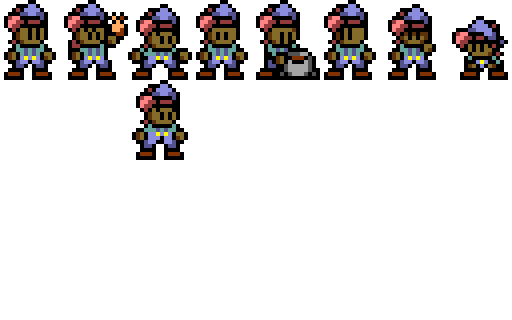
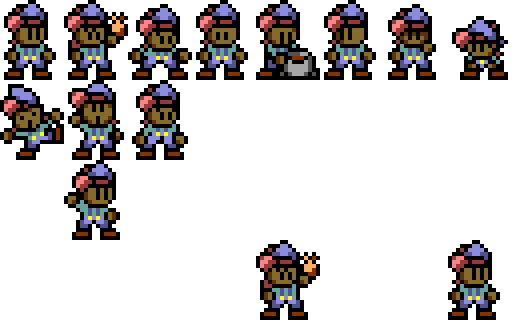
added combat hurt animations and enemy attack animations.

diff --git a/js/combat/combat.js b/js/combat/combat.js
@@ -1,5 +1,6 @@
 var combat = {
     enemies: [], state: 0, season: 0, numPlantTurns: 0,
+    playerAnimInfo: { animState: 0, anim: [[0, 0]], x: 4, y: 5.75 },
     expEarned: 0, moniesEarned: 0, itemsEarned: [], happyCows: [], usedShooters: [],
     grid: [], enemyGrid: [], enemywidth: 0, enemyheight: 0,
     isBossBattle: false, dx: 0, dy: 0, enemydx: 0, enemydy: 0,
@@ -41,6 +42,7 @@ var combat = {
         }
         this.enemyGrid = this.getGrid(this.enemywidth, this.enemyheight);
         this.drawMainElements();
+        combat.charAnimIdx = setInterval(combat.drawCharacters, 50);
         this.startRound();
         this.menu.setup();
     },
@@ -62,16 +64,76 @@ var combat = {
             season -= dist[j];
         }
     },
-    drawMainElements: function() {
-        gfx.clearSome(["background", "characters"]);
-        var initx = 11 - this.enemies.length;
-        for(var i = 0; i < this.enemies.length; i++) { // enemies
-            if(this.enemies[i].isBig) {
-                gfx.drawBigCharacter(this.enemies[i].spriteidx, 0, initx + i, 5.75);
+    drawCharacters: function() {
+        gfx.clearSome(["characters", "menucursorC"]);
+        combat.animateEntity(combat.playerAnimInfo, 4, 5.75, true);
+        var initx = 11 - combat.enemies.length;
+        for(var i = 0; i < combat.enemies.length; i++) { // enemies
+            if(combat.enemies[i].isBig) {
+                gfx.drawBigCharacter(combat.enemies[i].spriteidx, 0, initx + i, 5.75);
             } else {
-                gfx.drawCharacter(this.enemies[i].spriteidx, 0, initx + i, 5.75);
+                if(combat.enemies[i].dead) {
+                    gfx.drawDitheredCharacter(combat.enemies[i].spriteidx, 1, initx + i, 5.75, (combat.enemies[i].deadFrame++));
+                } else if(combat.enemies[i].hit) {
+                    var dx = Math.random() > 0.5 ? 0.125 : (Math.random() > 0.5 ? -0.125 : 0);
+                    var dy = Math.random() > 0.5 ? -0.25 : (Math.random() > 0.5 ? -0.125 : 0);
+                    gfx.drawCharacter(combat.enemies[i].spriteidx, 1, initx + i + dx, 5.75 + dy);
+                } else if(combat.enemies[i].anim) {
+                    combat.animateEntity(combat.enemies[i], initx + i, 5.75);
+                } else {
+                    gfx.drawCharacter(combat.enemies[i].spriteidx, 0, initx + i, 5.75);
+                }
             }
         }
+    },
+    setPlayerAnim: function(anims, x, y, top) {
+        combat.playerAnimInfo.animState = 0;
+        combat.playerAnimInfo.anim = anims || [[0, 0]];
+        combat.playerAnimInfo.timePerFrame = anim.timePerFrame;
+        combat.playerAnimInfo.x = x || 4; 
+        combat.playerAnimInfo.y = y || 5.75; 
+        combat.playerAnimInfo.onTop = top; 
+    },
+    setAnim: function (idx, anim, fr) {
+        combat.enemies[idx].animState = 0;
+        combat.enemies[idx].timePerFrame = fr;
+        combat.enemies[idx].lastRan = +new Date();
+        combat.enemies[idx].anim = anim;
+        combat.drawCharacters();
+    },
+    animateEntity: function (e, x, y, isPlayer) {
+        var dt = (+new Date()) - e.lastRan;
+        if(dt >= e.timePerFrame) {
+            e.lastRan = +new Date();
+            e.animState = (e.animState + 1) % e.anim.length;
+        }
+        var animData = e.anim[e.animState];
+        if(isPlayer) {
+            if(combat.playerAnimInfo.hit) {
+                var dx = Math.random() > 0.5 ? 0.125 : (Math.random() > 0.5 ? -0.125 : 0);
+                var dy = Math.random() > 0.5 ? -0.25 : (Math.random() > 0.5 ? -0.125 : 0);
+                gfx.drawPlayer(0, 1, e.x + dx, e.y + dy);
+            } else {
+                gfx.drawPlayer(animData[0], animData[1], e.x, e.y, e.onTop ? "menucursorC" : "characters");
+            }
+        } else {
+            gfx.drawCharacter(animData[0], animData[1], x, y);
+        }
+    },
+    clearAnimsAndRemoveCorpses: function() {
+        combat.playerAnimInfo.hit = false;
+        for(var i = combat.enemies.length - 1; i >= 0; i--) {
+            combat.enemies[i].hit = false;
+            combat.enemies[i].animState = 0;
+            combat.enemies[i].anim = null;
+            if(combat.enemies[i].dead) {
+                combat.enemies.splice(i, 1);
+            }
+        }
+    },
+    drawMainElements: function() {
+        gfx.clearLayer("background");
+        this.drawCharacters();
         this.enemydx = 10 + Math.floor((5 - this.enemywidth) / 2);
         this.enemydy = this.dy + Math.floor((player.gridHeight - this.enemyheight) / 2);
         for(var x = 0; x < this.enemywidth; x++) { // enemy field
@@ -143,11 +205,16 @@ var combat = {
         }
         return -1;
     },
-    damagePlayer: function(damage) { player.health = Math.max(0, player.health - damage); },
+    damagePlayer: function(damage) {
+        player.health = Math.max(0, player.health - damage);
+        this.playerAnimInfo.hit = true;
+    },
     damageEnemy: function(enemyidx, damage) {
         this.enemies[enemyidx].health -= damage;
         if(this.enemies[enemyidx].health <= 0) {
             var e = this.enemies[enemyidx];
+            e.dead = true;
+            e.deadFrame = 0;
             this.expEarned += e.exp;
             for(var i = 0; i < e.drops.length; i++) {
                 var dropInfo = e.drops[i];
@@ -157,7 +224,8 @@ var combat = {
                     this.addDroppedSeedToItemsEarned(dropInfo.seed, Math.max(0, Range(dropInfo.min, dropInfo.max)));
                 }
             }
-            this.enemies.splice(enemyidx, 1);
+        } else {
+            this.enemies[enemyidx].hit = true;
         }
     },
     addDroppedSeedToItemsEarned: function(seed, amount) {
@@ -189,6 +257,7 @@ var combat = {
         } else {
             var postCombat = game.target.postBattle;
             worldmap.clearTarget();
+            clearInterval(combat.charAnimIdx);
             game.transition(combat.inbetween, worldmap, {
                 init: worldmap.pos,
                 map: worldmap.mapName,
@@ -199,7 +268,6 @@ var combat = {
     },
     fuckingDead: function() {
         var inn = inns[player.lastInn];
-        console.log(inn);
         player.health = player.maxhealth;
         game.transition(game.currentInputHandler, worldmap, {  init: { x: inn.x,  y: inn.y }, map: inn.map });
     },
@@ -261,7 +329,8 @@ var combat = {
             this.startRound();
             game.transition(caller, combat.menu);
         } else {
-            game.transition(caller, combat.enemyTurn, this.enemies[this.state - 1]);
+            var idx = this.state - 1;
+            game.transition(caller, combat.enemyTurn, { enemy: this.enemies[idx], idx: idx });
         }
     },
     drawBottom: function() {

diff --git a/js/combat/combatcompost.js b/js/combat/combatcompost.js
@@ -51,10 +51,10 @@ combat.compost = {
         }
         if(this.healButtonSelected) {
             gfx.drawCursor(0, this.dy, this.healButtonWidth, 0);
-            gfx.drawPlayer(6, 0, 4, 5.75, "menucursorA");
+            combat.setPlayerAnim([[6, 0]]);
         } else if(this.attackButtonSelected) {
             gfx.drawCursor(0, this.dy + 1, this.attackButtonWidth, 0);
-            gfx.drawPlayer(2, 0, 4, 5.75, "menucursorA");
+            combat.setPlayerAnim([[2, 0]]);
         } else {
             var px = this.cursor.x - combat.dx; var py = this.cursor.y - combat.dy;
             var tile = combat.grid[px][py];
@@ -65,7 +65,7 @@ combat.compost = {
                     } else {
                         gfx.drawCursor(tile.x + combat.dx, tile.y + combat.dy, 1, 1, "bcursor");
                     }
-                    gfx.drawPlayer(7, 0, tile.x + combat.dx + 0.5, tile.y + combat.dy + 0.25, "menucursorB");
+                    combat.setPlayerAnim([[7, 0]], tile.x + combat.dx + 0.5, tile.y + combat.dy + 0.25, true);
                 } else {
                     if(this.isCompostable(tile)) {
                         gfx.drawCursor(this.cursor.x, this.cursor.y, tile.size - 1, tile.size - 1);
@@ -73,9 +73,9 @@ combat.compost = {
                         gfx.drawCursor(this.cursor.x, this.cursor.y, tile.size - 1, tile.size - 1, "bcursor");
                     }
                     if(tile.size === 2) {
-                        gfx.drawPlayer(7, 0, this.cursor.x + 0.5, this.cursor.y + 0.25, "menucursorB");
+                        combat.setPlayerAnim([[7, 0]], this.cursor.x + 0.5, this.cursor.y + 0.25, true);
                     } else {
-                        gfx.drawPlayer(7, 0, this.cursor.x, this.cursor.y - 0.25, "menucursorB");
+                        combat.setPlayerAnim([[7, 0]], this.cursor.x, this.cursor.y - 0.25, true);
                     }
                 }
             } else {
@@ -89,10 +89,10 @@ combat.compost = {
                 }
                 if(cowIdx < 0) {
                     gfx.drawCursor(this.cursor.x, this.cursor.y, 0, 0, "bcursor");
-                    gfx.drawPlayer(7, 0, this.cursor.x, this.cursor.y - 0.25, "menucursorB");
+                    combat.setPlayerAnim([[7, 0]], this.cursor.x, this.cursor.y - 0.25, true);
                 } else {
                     gfx.drawCursor(cowPos.x, cowPos.y, 1, 1);
-                    gfx.drawPlayer(7, 0, cowPos.x + 0.5, cowPos.y + 0.25, "menucursorB");
+                    combat.setPlayerAnim([[7, 0]], cowPos.x + 0.5, cowPos.y + 0.25, true);
                 }
             }
         }

diff --git a/js/rendering.js b/js/rendering.js
@@ -45,6 +45,16 @@ var gfx = {
         layer = layer || "characters";
         gfx.drawImage(gfx.ctx[layer], gfx.spritesheets["charsheet"], sx * 16, sy * 20, 16, 20, x * 16, y * 16 - 4, 16, 20);
     },
+    drawDitheredCharacter: function(sx, sy, x, y, d, layer) {
+        if(d === 0) { return gfx.drawCharacter(sx, sy, x, y, layer); }
+        var ctx = gfx.ctx[(layer || "characters")];
+        var sheet = gfx.spritesheets["charsheet"];
+        var ditherAmounts = [d < 3, d < 5, d < 2, d < 4, d < 3, d < 6, false, d < 4, d < 3, d < 5, d < 2, d < 4, d < 3, d < 6, false, d < 4];
+        for(var i = 0; i < 16; i++) {
+            if(!ditherAmounts[i]) { continue; }
+            gfx.drawImage(ctx, sheet, sx * 16 + i, sy * 20, 1, 20, x * 16 + i, y * 16 - 4, 1, 20);
+        }
+    },
     drawAnimCharacter: function(sx, sy, pos, offset, sheet, big) {
         sheet = sheet || "mapchar";
         var w = (big ? 32 : 16), h = (big ? 40 : 20);
@@ -148,15 +158,15 @@ var gfx = {
             y: Math.min(h - gfx.tileHeight, Math.max(centery - (gfx.tileHeight / 2), 0))
         };
         gfx.drawImage(gfx.ctx["background"], mapImg, offset.x * 16, offset.y * 16, gfx.canvasWidth, gfx.canvasHeight, 0, 0, gfx.canvasWidth, gfx.canvasHeight);
+        //var midy = (centery - offset.y) * 16 + 12.25;
+        //gfx.drawImage(gfx.ctx["background"], gfx.spritesheets["maps/" + map + "_fg"], offset.x * 16, offset.y * 16, gfx.canvasWidth, midy, 0, 0, gfx.canvasWidth, midy);
+        //gfx.drawImage(gfx.ctx["foreground"], gfx.spritesheets["maps/" + map + "_fg"], offset.x * 16, midy + offset.y * 16, gfx.canvasWidth, midy, 0, midy, gfx.canvasWidth, midy);
         return offset;
     },
     drawStore: function(store) {
         var storeImg = gfx.spritesheets[store];
         gfx.drawImage(gfx.ctx["background"], storeImg, 0, 0, gfx.canvasWidth, gfx.canvasHeight, 0, 0, gfx.canvasWidth, gfx.canvasHeight);
         return true;
-    },
-    drawDynamicSprite: function(layer, sheet, sx, sy, w, h, x, y) {
-        gfx.drawImage(gfx.ctx[layer], gfx.spritesheets[sheet], sx * w, sy * h, w, h, x, y, w, h);
     },
     drawImage: function(ctx, image, srcX, srcY, srcW, srcH, dstX, dstY, dstW, dstH) {
         ctx.drawImage(image, srcX * gfx.scale, srcY * gfx.scale, srcW * gfx.scale, srcH * gfx.scale, dstX * gfx.scale, dstY * gfx.scale, dstW * gfx.scale, dstH * gfx.scale);  

diff --git a/js/animation/animController.js b/js/animation/animController.js
@@ -1,4 +1,4 @@
-function MapAnim(sheet, sx, sy, w, h, dir) {
+function MapAnim(sheet, sx, sy, w, h, dir, sheetlen) {
     this.sheet = sheet;
     this.topx = sx * w;
     this.topy = sy * h;
@@ -8,19 +8,32 @@ function MapAnim(sheet, sx, sy, w, h, dir) {
     this.big = false;
     this.lastDir = dir || 2;
     this.lastRan = +new Date();
+    this.sheetlen = sheetlen || 4;
+    this.frameRate = anim.timePerFrame;
+    this.setFPS = function(fps) { this.frameRate = (fps === undefined ? animController.frameRate : GetFrameRate(fps)); return this; };
+    this.shiftX = function(newX, newLen) {
+        this.topx = newX * this.width;
+        this.sheetlen = newLen || this.sheetlen;
+        return this;
+    };
+    this.shiftY = function(newY) { this.topy = newY * this.height; return this; };
     this.getFrame = function(pos, dir, moving) {
         var curTime = +new Date();
-        var update = (curTime - this.lastRan) >= anim.timePerFrame;
+        var update = (curTime - this.lastRan) >= this.frameRate;
         var frame = 0;
         if(dir !== this.lastDir) {
             this.state = 0;
             this.lastDir = dir;
         } else if(moving) {
             if(update) {
-                this.state = (this.state + 1) % 4;
+                this.state = (this.state + 1) % this.sheetlen;
                 this.lastRan = curTime;
             }
-            frame = 1 + ((this.state === 3) ? 1 : this.state);
+            if(this.sheetlen == 4) {
+                frame = 1 + ((this.state === 3) ? 1 : this.state);
+            } else {
+                frame = this.state;
+            }
         }
         return {
             sheet: this.sheet,
@@ -31,6 +44,6 @@ function MapAnim(sheet, sx, sy, w, h, dir) {
         };
     };
 }
-
+function GetFrameRate(fps) { return 1000 / fps; }
 var anim = { fps: 6 };
-anim.timePerFrame = 1000 / anim.fps;
+anim.timePerFrame = GetFrameRate(anim.fps);

diff --git a/js/combat/combatenemyturn.js b/js/combat/combatenemyturn.js
@@ -1,9 +1,12 @@
 combat.enemyTurn = {
     dy: 7, 
-    setup: function(enemy) {
-        gfx.drawPlayer(0, 0, 4, 5.75, "menuA");
+    setup: function(args) {
+        var enemy = args.enemy;
+        combat.setPlayerAnim();
         gfx.drawFullbox(this.dy);
-        gfx.drawFullText(this.doAttack(enemy), this.dy * 16);
+        var attackData = this.doAttack(enemy);
+        combat.setAnim(args.idx, attackData.animData, GetFrameRate(attackData.animFPS));
+        gfx.drawFullText(attackData.text, this.dy * 16);
         combat.drawBottom();
     },
     doAttack: function(enemy) {
@@ -11,7 +14,7 @@ combat.enemyTurn = {
         return enemyAttacks[enemy.attacks[idx]](enemy);
     },
     clean: function() { gfx.clearSome(["menuA", "menutext"]); },
-    click: function(pos) { combat.endTurn(this); return true; },
+    click: function(pos) { combat.clearAnimsAndRemoveCorpses(); combat.endTurn(this); return true; },
     keyPress: function(key) { if(key == "Enter" || key == " ") { return this.click(null); }  return true; },
     mouseMove: function(pos) { return true; }
 };

diff --git a/js/combat/combatselectenemy.js b/js/combat/combatselectenemy.js
@@ -14,7 +14,7 @@ combat.selectTarget = {
     },
     drawAll: function() {
         gfx.clearSome(this.layersToClear);
-        gfx.drawPlayer(2, 0, 4, 5.75, "menucursorA");
+        combat.setPlayerAnim([[2, 0]]);
         if(this.sicklePos.x >= 0) {
             var crop = combat.enemyGrid[this.sicklePos.x - combat.enemydx][this.sicklePos.y - combat.enemydy];
             if(crop === null) {
@@ -117,7 +117,7 @@ combat.selectTarget = {
         } else {
             var target = combat.enemies[this.cursorx];
             if(!criticalHit) { damage = Math.max(1, damage - target.def); }
-            damagetext += "You attack " + Capitalize(target.name) + " for like " + damage + " damage";
+            damagetext += "You attack " + target.name + " for like " + damage + " damage";
             if((target.health - damage) <= 0) {
                 damagetext += ", killing them instantly."
             } else { damagetext += "."; }

diff --git a/index.html b/index.html
@@ -28,6 +28,7 @@
             <canvas id="menuB" width="960" height="640"></canvas>
             <canvas id="menucursorA" width="960" height="640"></canvas>
             <canvas id="menucursorB" width="960" height="640"></canvas>
+            <canvas id="menucursorC" width="960" height="640"></canvas>
             <canvas id="menutext" width="960" height="640"></canvas>
             <canvas id="tutorial" width="960" height="640"></canvas>
         </div>
@@ -42,6 +43,7 @@
                     menuB: document.getElementById("menuB"),
                     menucursorA: document.getElementById("menucursorA"),
                     menucursorB: document.getElementById("menucursorB"),
+                    menucursorC: document.getElementById("menucursorC"),
                     menutext: document.getElementById("menutext"), 
                     tutorial: document.getElementById("tutorial")
                 };

diff --git a/js/combat/combatplant.js b/js/combat/combatplant.js
@@ -234,13 +234,13 @@ combat.plant = {
         var cursorX = this.cursor.x, cursorY = this.cursor.y;
         if(this.activeCrop === null) {
             this.setText();
-            gfx.drawPlayer(6, 0, 4, 5.75, "menuA");
+            combat.setPlayerAnim([[6, 0]]);
         } else {
             size = this.activeCrop.size - 1;
             if(size == 1) {
-                gfx.drawPlayer(7, 0, cursorX + 0.5, cursorY + 0.25, "menucursorB");
+                combat.setPlayerAnim([[7, 0]], cursorX + 0.5, cursorY + 0.25, true);
             } else {
-                gfx.drawPlayer(7, 0, cursorX, cursorY - 0.25, "menucursorB");
+                combat.setPlayerAnim([[7, 0]], cursorX, cursorY - 0.25, true);
             }
         }
         gfx.drawInfobox(16, 3, this.dy + 0.5);

diff --git a/js/combat/combatinbetween.js b/js/combat/combatinbetween.js
@@ -2,13 +2,13 @@ combat.inbetween = {
     next: null, dy: 7, 
     setup: function(args) {
         this.next = args.next;
-        gfx.drawPlayer(0, 0, 4, 5.75, "menuA");
+        combat.setPlayerAnim();
         gfx.drawFullbox(this.dy);
         gfx.drawFullText(args.text, this.dy * 16);
         combat.drawBottom();
     },
     clean: function() { gfx.clearSome(["menuA", "menuB", "menucursorA", "menucursorB", "menutext"]); },
     mouseMove: function(pos) { return true; },
-    click: function(pos) { this.next(); return true; },
+    click: function(pos) { combat.clearAnimsAndRemoveCorpses(); this.next(); return true; },
     keyPress: function(key) { if(key == "Enter" || key == " ") { return this.click(null); } return true; }
 };

diff --git a/js/combat/combatmenu.js b/js/combat/combatmenu.js
@@ -43,7 +43,7 @@ combat.menu = {
                 charPose = 5;
                 break;
         }
-        gfx.drawPlayer(charPose, 0, 4, 5.75, "menuA");
+        combat.setPlayerAnim([[charPose, 0]]);
         gfx.drawInfobox(11, 2.5, this.dy + 1.5);
         gfx.drawWrappedText(text, 4.5 * 16, 11 + ((1.5 + this.dy) * 16), 170);
         if(this.cursorY === 1) { this.highlightReadyCrops(); }
